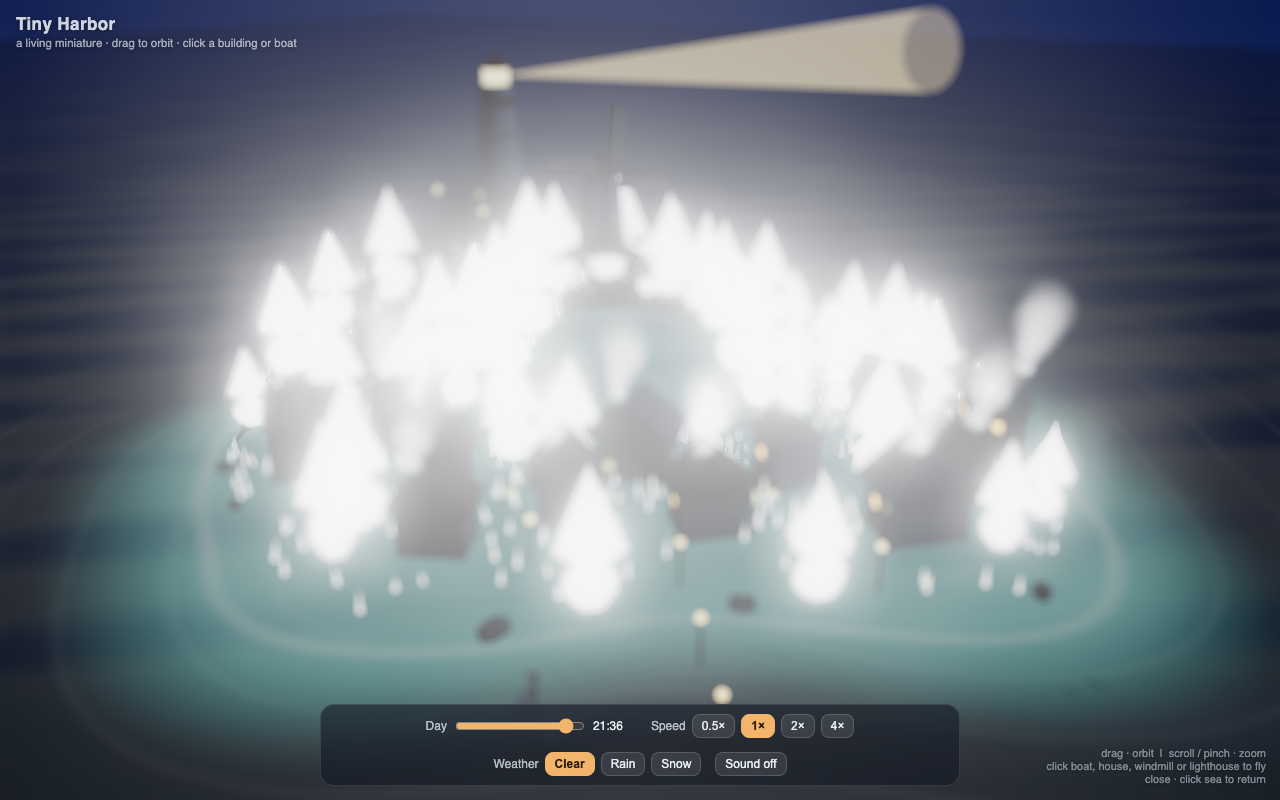
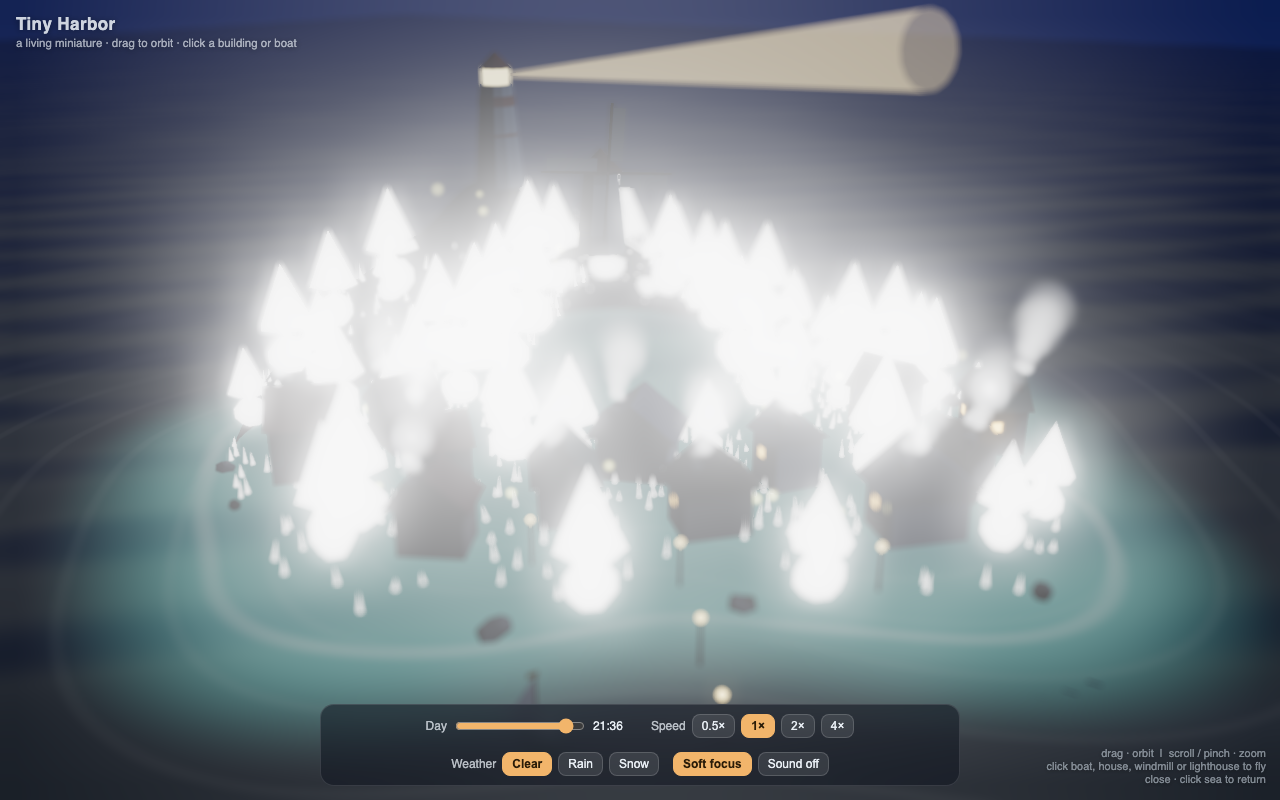
Retune tilt-shift DoF so the island stays crisp; add Soft/Sharp focus toggle
- Sharp band was only +/-4.6 world units (aperture 0.0024, maxblur 0.011) on a
  ~50-unit scene: nearly everything rendered at max blur. Now aperture 0.0005 /
  maxblur 0.009 -> whole island sharp, only near/far edges soften (record mode
  keeps a slightly stronger miniature falloff).
- UI: Soft focus button + ?dof=off URL param.
- Refresh screenshots and README checks table.

Changed region(s): [[0.3438, 0.9375, 0.6562, 0.9688], [0.375, 0.0625, 0.4062, 0.125]]

diff --git a/src/main.js b/src/main.js
@@ -180,6 +180,14 @@ ui.sound.addEventListener('click', () => {
   ui.sound.classList.toggle('on', state.soundOn);
   audio.setOn(state.soundOn);
 });
+const dofBtn = document.getElementById('dofBtn');
+function setSoftFocus(on) {
+  state.softFocus = on;
+  dofBtn.textContent = on ? 'Soft focus' : 'Sharp focus';
+  dofBtn.classList.toggle('on', on);
+}
+dofBtn.addEventListener('click', () => { setSoftFocus(!state.softFocus); markIdle(); });
+if (params.get('dof') === 'off') setSoftFocus(false);
 if (params.has('weather')) setWeather(params.get('weather'));
 
 // ---------- main loop ----------
@@ -273,8 +281,10 @@ function frame(now) {
   const bokehU = bokeh.uniforms || bokeh.materialBokeh?.uniforms;
   if (bokehU) {
     bokehU.focus.value = camera.position.distanceTo(controls.target);
-    bokehU.aperture.value = state.aperture ?? (state.record ? 0.0032 : 0.0024);
-    bokehU.maxblur.value = state.maxblur ?? 0.011;
+    // sharp band half-width = maxblur/aperture; keep it ≥ island scale so the diorama reads crisp
+    const soft = state.softFocus !== false;
+    bokehU.aperture.value = state.aperture ?? (soft ? (state.record ? 0.0009 : 0.0005) : 0.0);
+    bokehU.maxblur.value = state.maxblur ?? (soft ? 0.009 : 0.0);
   }
   bloom.strength = 0.10 + sky.nightF * 0.55 + sky.golden * 0.18 + state.snowAmt * 0.08;
 

diff --git a/src/world.js b/src/world.js
@@ -25,6 +25,7 @@ export const state = {
   record: false,
   aperture: null,      // optional DoF override (tuning/testing)
   maxblur: null,
+  softFocus: true,     // tilt-shift blur on/off (UI toggle)
 };
 
 export function smoothstep(e0, e1, x) {

diff --git a/index.html b/index.html
@@ -71,6 +71,7 @@
     <button data-weather="snow">Snow</button>
   </div>
   <div class="group">
+    <button id="dofBtn" class="on" title="tilt-shift soft focus">Soft focus</button>
     <button id="soundBtn">Sound off</button>
   </div>
 </div>

diff --git a/README.md b/README.md
@@ -43,6 +43,7 @@ Bottom bar:
 - **Speed** — 0.5× / 1× / 2× / 4× simulation speed.
 - **Weather** — Clear, Rain (dark clouds, streaks, sea ripples, wet sheen) or
   Snow (slow accumulation on roofs, icy sea, softer light).
+- **Soft focus** — toggles the tilt-shift blur on/off (also `?dof=off` in the URL).
 - **Sound** — procedural WebAudio surf wash, wind and a distant harbor bell.
   Off by default; nothing plays until you toggle it.
 
@@ -111,7 +112,7 @@ All checks ran headless (Playwright + Chromium) against this repo, served with
 | Record mode canvas | fixed **1080×1350**, UI hidden, scripted film advances |
 | Determinism (`?record=1&maxtick=2`) | two fresh loads at the same tick produced **byte-identical PNGs** (sha256 match) |
 | Boats loop → dock → leave | verified by sampling boat state machines at 4× speed |
-| Tilt-shift profile (pixel stats) | mid-frame band ~6× sharper than foreground/background bands |
+| Tilt-shift profile (pixel stats) | whole island in the sharp band; foreground/background softened to ~0.5× mid-frame detail (tunable: Soft focus button, `?dof=off`) |
 
 ## GitHub Pages
 
